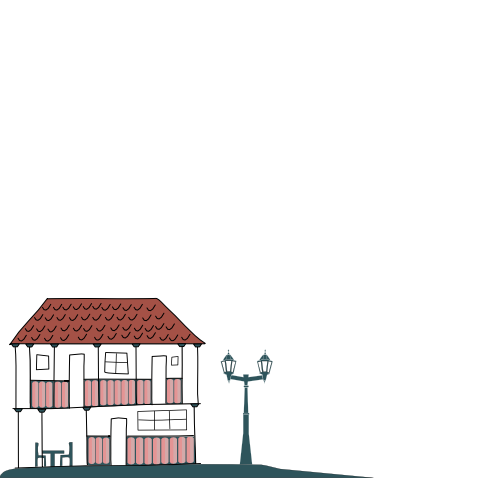
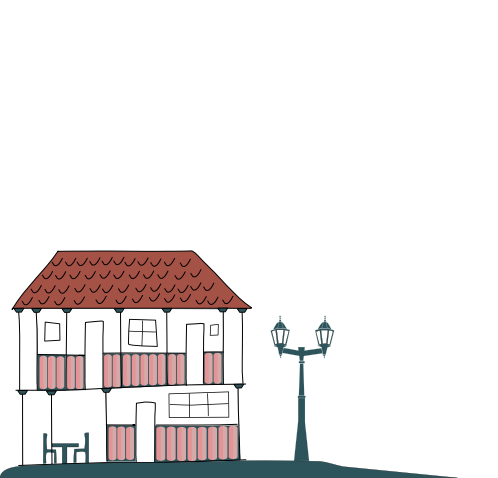
now the background works with the png house

Changed region(s): [[0.0, 0.4979, 0.9337, 1.0]]

diff --git a/jsFiles/skycolors.js b/jsFiles/skycolors.js
@@ -27,7 +27,7 @@ const skyColors = {
 };
 
 let cardBody = document.querySelector(".card-body");
-let house = "url(img/house.png) no-repeat cover";
+let house = "url(img/house.png)";
 
 // this function should change the color of the sky according to
 // the actual time, sunset and sunrise time.
@@ -49,7 +49,8 @@ function skyColor(sunrise, sunset) {
   // around sunset: 14, 15, 16, 17 - sunset , 18, 19 20, 21
   console.log(timeInMinutes, sunriseInMinutes, sunsetInMinutes);
 
-  cardBody.style.background = `${house}, linear-gradient(to bottom, #163C52 0%,#4F4F47 30%,#C5752D 60%,#B7490F 80%, #2F1107 100%)`;
+  cardBody.style.backgroundImage =
+    `${house}, linear-gradient(to bottom, #163C52 0%,#4F4F47 30%,#C5752D 60%,#B7490F 80%, #2F1107 100%)`;
 }
 
 //This function converts a time stamp into and array that contains the hr and min.

diff --git a/cssFiles/styles.css b/cssFiles/styles.css
@@ -20,7 +20,9 @@ h1 {
   font-family: "Kalam", cursive;
 }
 .card-body {
-  background: url(../img/house1.svg) no-repeat;
+  background-image: url(../img/house.png);
+  background-size: contain;
+  background-repeat: no-repeat;
 }
 .card {
   max-width: 500px;
